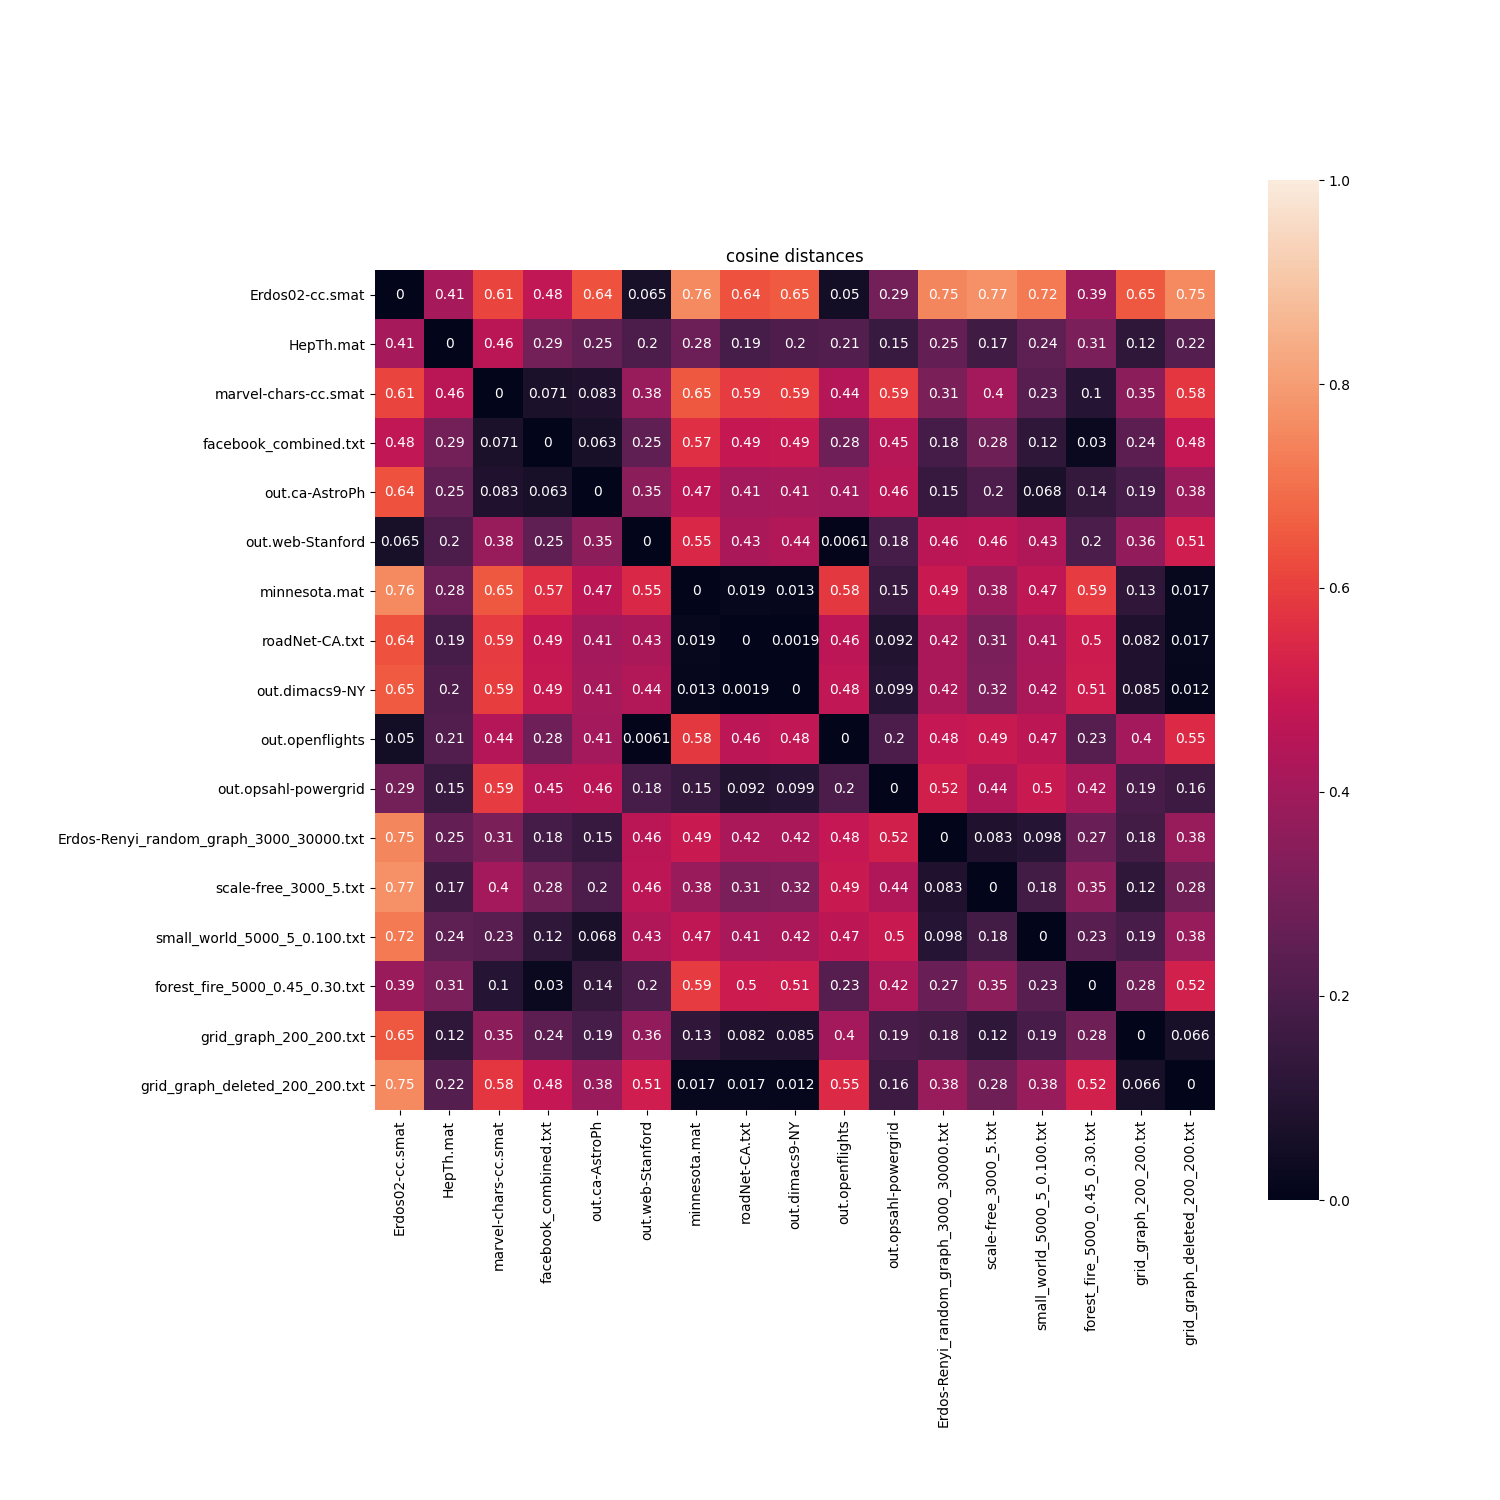
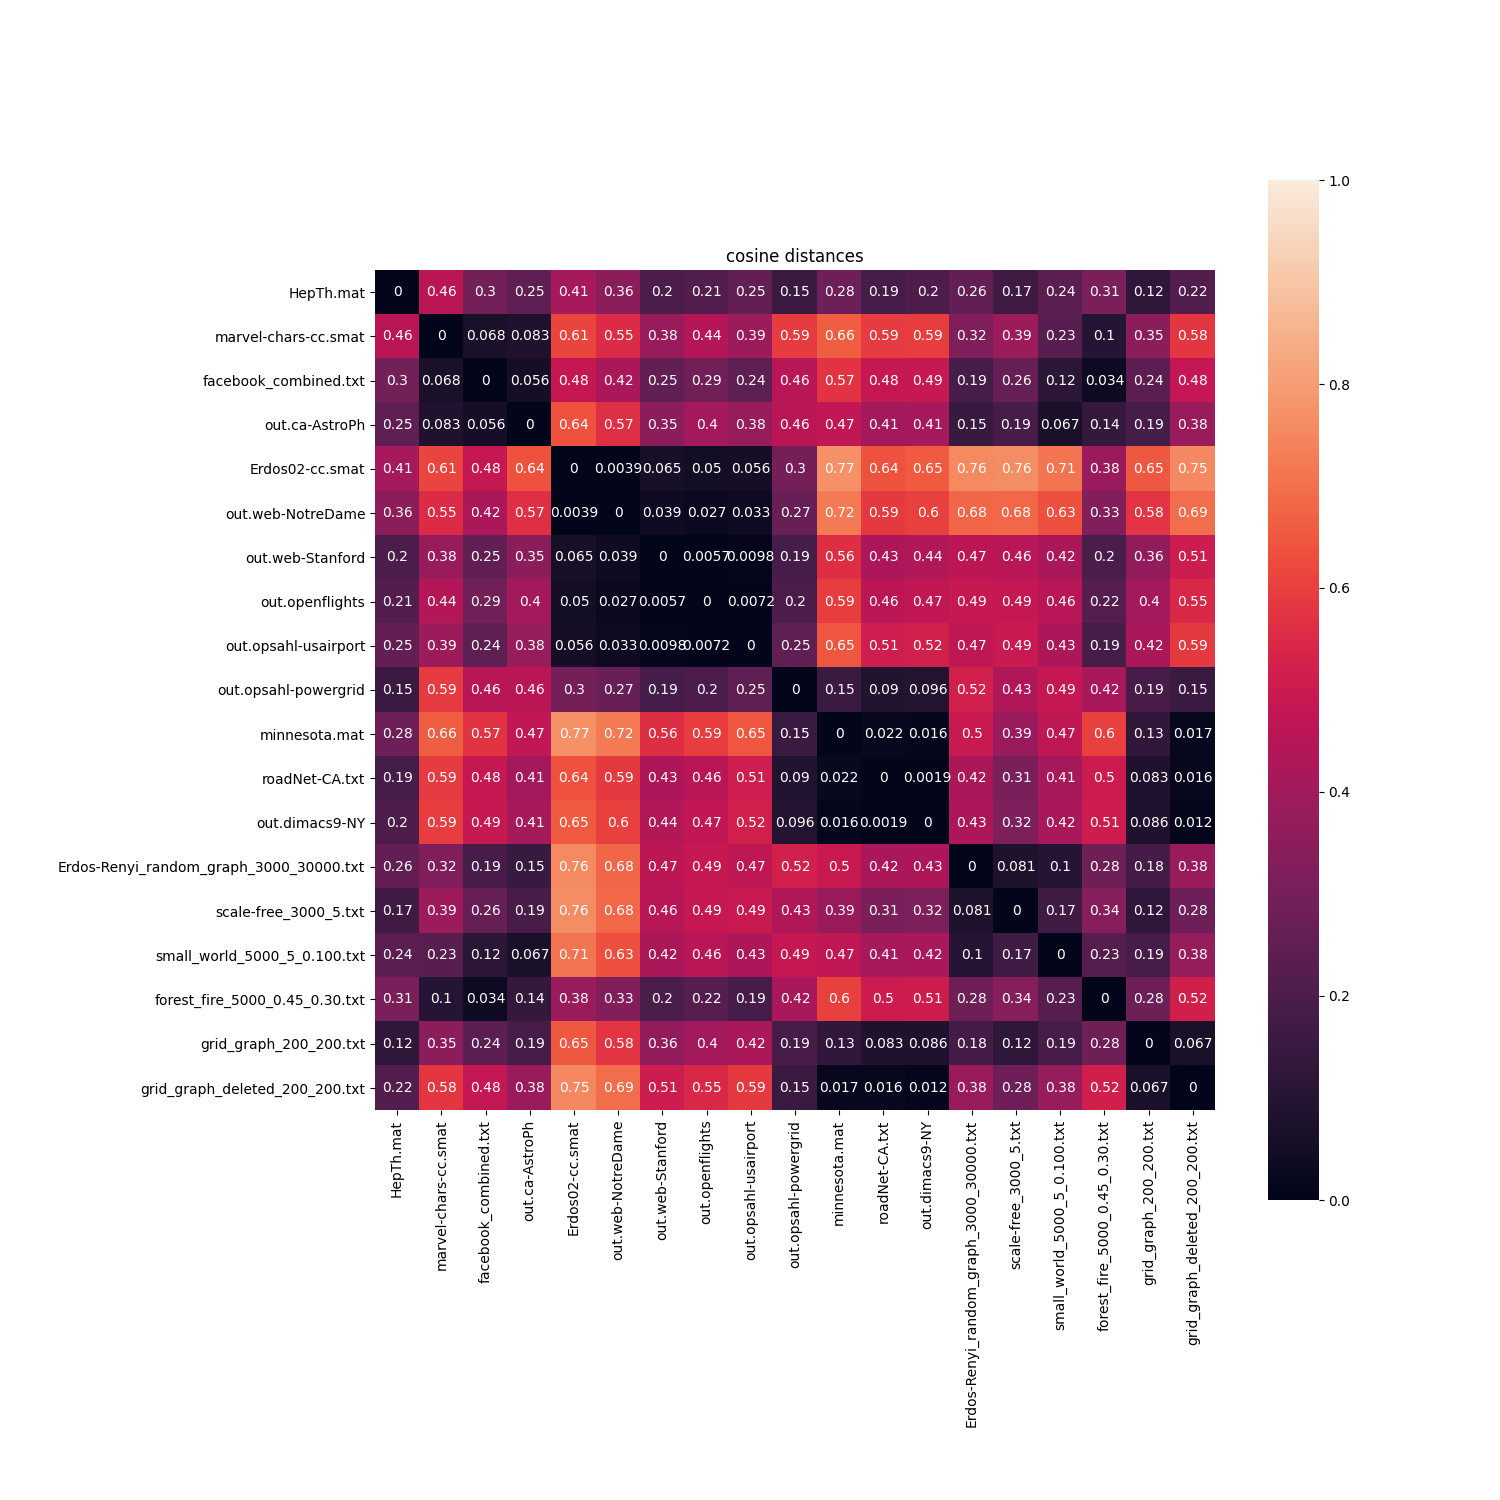
update heatmap

Changed region(s): [[0.0307, 0.1533, 0.828, 0.8893]]

diff --git a/demo/demo_heatmap.py b/demo/demo_heatmap.py
@@ -30,22 +30,24 @@ if __name__ == '__main__':
 
     par_dir = '../data/'
     files = [
-        #sparse
-        "graph-eigs-v1/Erdos02-cc.smat",
         "HepTh.mat",
         # social
         "graph-eigs-v1/marvel-chars-cc.smat",
         "snap/facebook_combined.txt",
         "konect/ca-AstroPh/out.ca-AstroPh",
+        #
+        "graph-eigs-v1/Erdos02-cc.smat",
         # hyper-link
+        "konect/web-NotreDame/out.web-NotreDame",
         "konect/web-Stanford/out.web-Stanford",
+        # infrastructure
+        "konect/openflights/out.openflights",
+        "konect/opsahl-usairport/out.opsahl-usairport",
+        "konect/opsahl-powergrid/out.opsahl-powergrid",
         # road network
         "minnesota.mat",
         "snap/roadNet-CA.txt",
         "konect/dimacs9-NY/out.dimacs9-NY",
-        # infrastructure
-        "konect/openflights/out.openflights",
-        "konect/opsahl-powergrid/out.opsahl-powergrid",
         # models
         "gen_model/Erdos-Renyi_random_graph_3000_30000.txt",
         "gen_model/scale-free_3000_5.txt",
